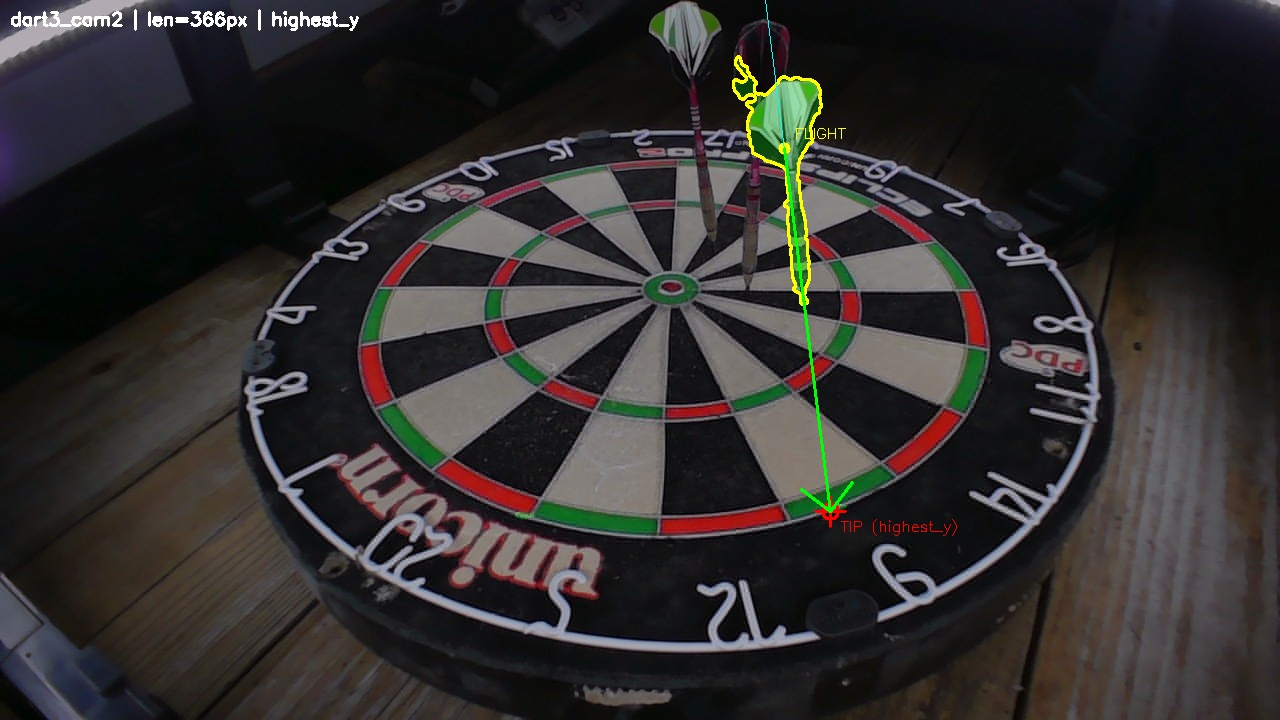
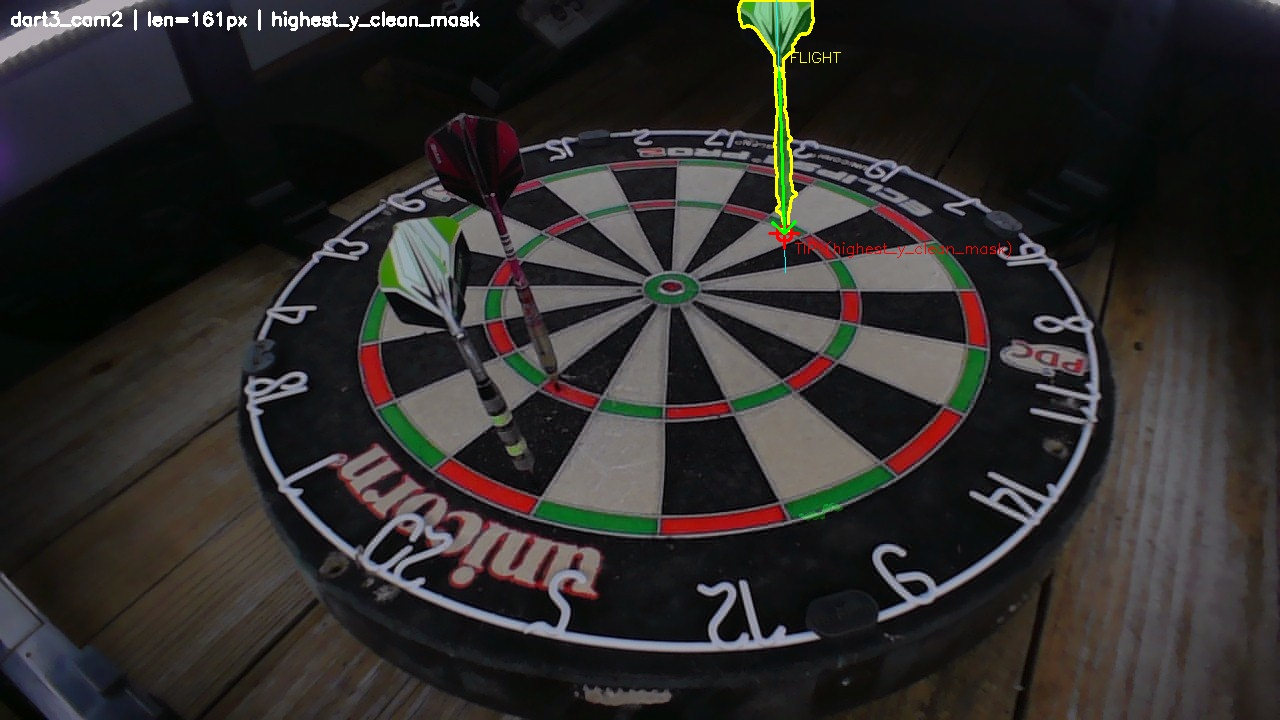
fix: include v10.2_shape_filtered in line intersection routing (was only checking skeleton/hough)

diff --git a/app/api/routes.py b/app/api/routes.py
@@ -2153,7 +2153,7 @@ async def detect_tips(
                 has_camid = 'camera_id' in t
                 dbg.write(f"  tip: cam={t.get('camera_id')}, has_line={has_line}, has_camid={has_camid}\n")
     
-    if detection_method in ("skeleton", "hough") and len(all_tips) >= 2:
+    if detection_method in ("skeleton", "hough", "v10.2_shape_filtered") and len(all_tips) >= 2:
         tips_with_lines = [t for t in all_tips if t.get('line')]
         logger.info(f"[LINE-VOTE] {len(tips_with_lines)} tips have line data")
         
